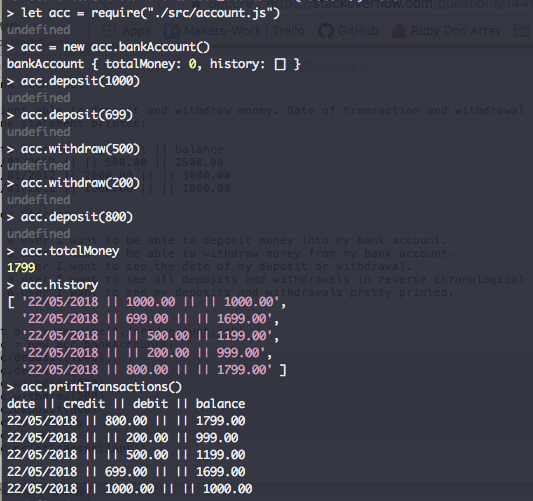
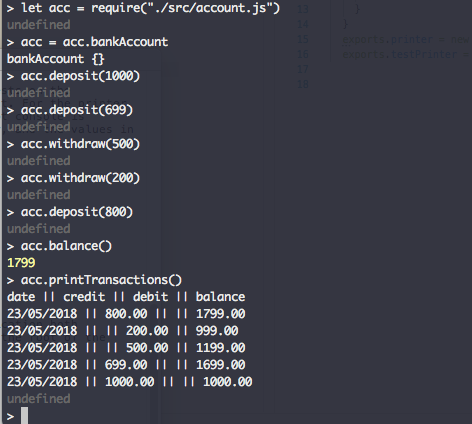
readme updated, need to add dependency test

Changed region(s): [[0.0, 0.0, 0.5932, 1.0]]

diff --git a/README.md b/README.md
@@ -29,17 +29,20 @@ When the user wants to view their transaction history the **printer class** is c
 
 The application is wrote using Node.JS and can be executed from the command line. To execute a production version of the application ensure you have Node.JS installed. Then from within the application forder, you can begin the application by writing the following commands.
 
+**Project Testing**
+
+The project is tested using Jasmine. The majority of tests are unit tests on the individual functions/classes to ensure they generate the correct output. For the printer class, to represent the reverse printing of transactions the javascript console is stubbed. Instead of printing, transactions are shovelled into an array, and the values in the array are tested.
+
 npm install
 node
 let acc = require("./src/account.js")\
-acc = new acc.bankAccount()\
+acc = acc.bankAccount\
 acc.deposit(1000)\
 acc.deposit(699)\
 acc.withdraw(500)\
 acc.withdraw(200)\
 acc.deposit(800)\
-acc.totalMoney\
-acc.history\
+acc.balance()\
 acc.printTransactions()
 
 The first line will install all the dependencies for running the application both development and test environments. To run the application tests, from the root of the project run npm run test.
@@ -47,7 +50,6 @@ The first line will install all the dependencies for running the application bot
 **Example Application**\
 ![Sample Application](./example_bank_test.png?raw=true "Title")
 
-let formatter = require("./src/formatter.js")
 
 
 
